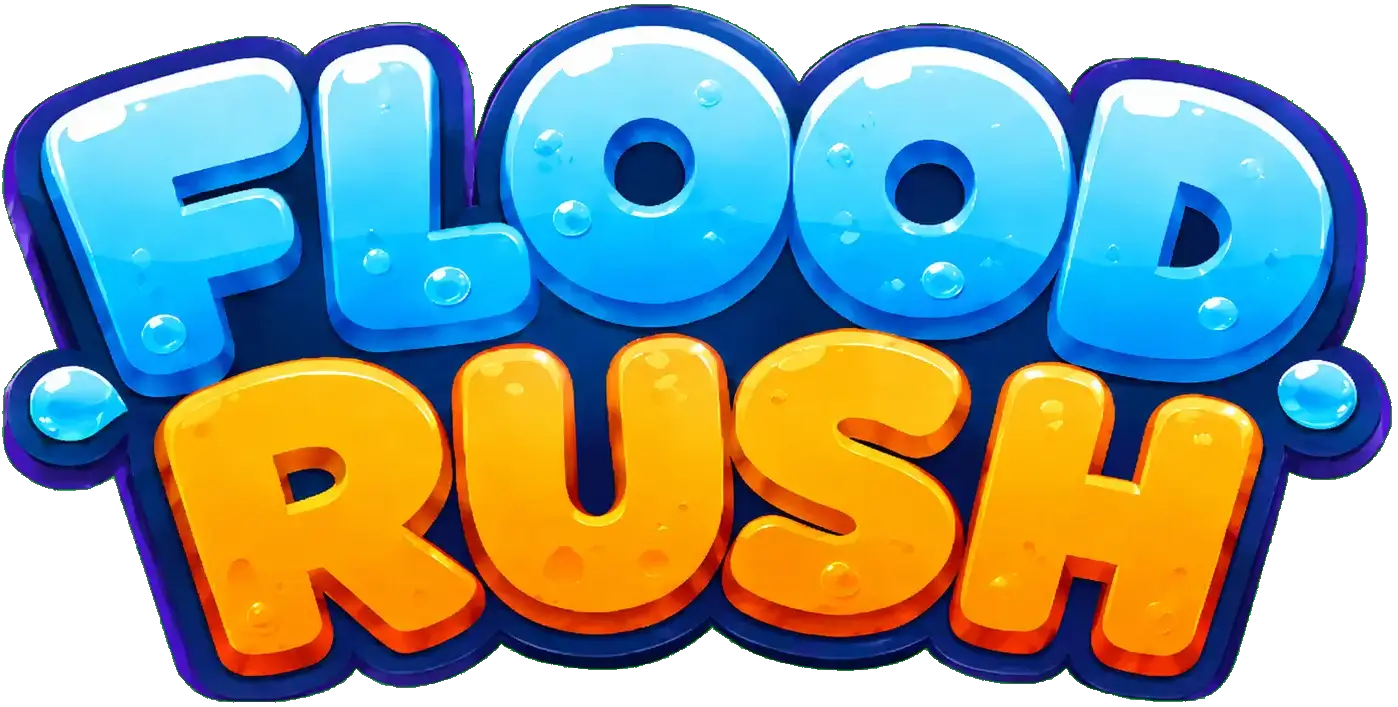
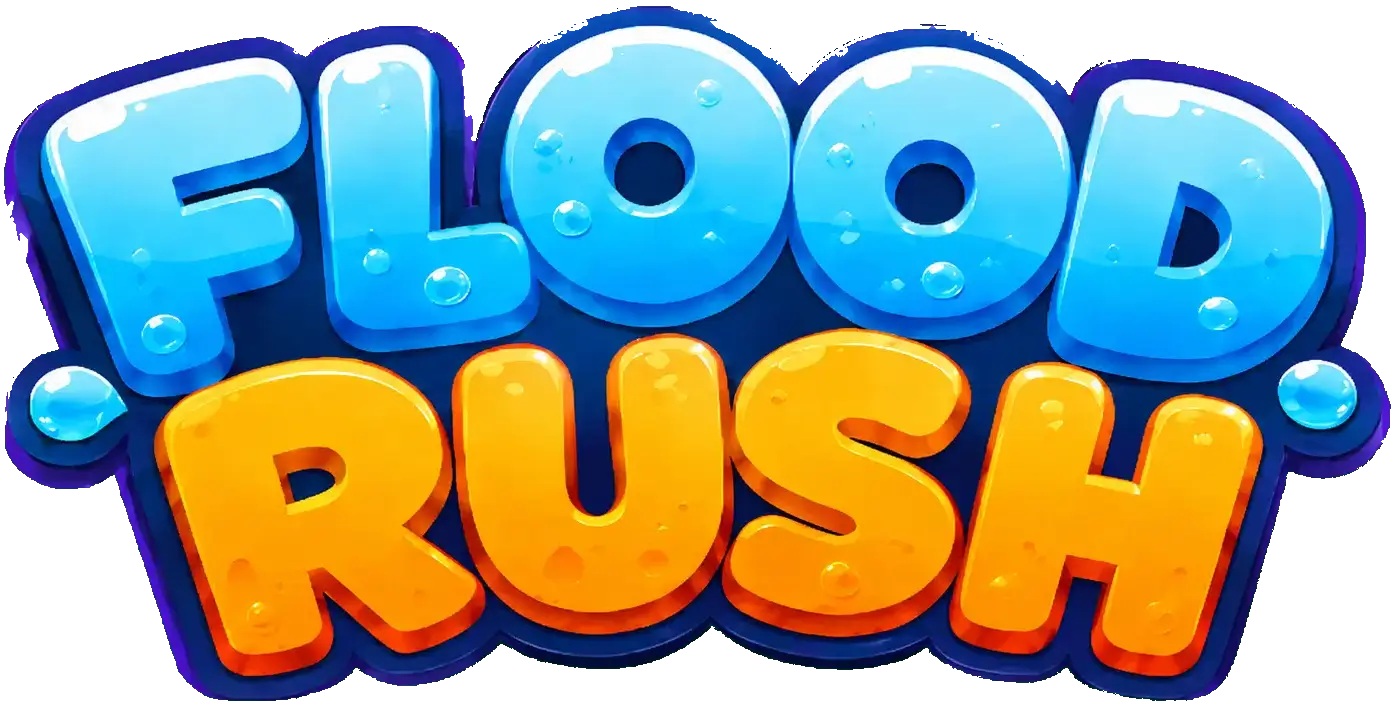
feat: Enhance swimmer UI asset processing with green chroma handling
- Added functions to detect and remove green-screen spill from images, improving visual quality of assets.
- Implemented a method to strip light edge fringes from silhouettes, enhancing the clarity of keyed images.
- Updated the asset processing script to apply new chroma keying techniques when processing swimmer UI assets.

diff --git a/scripts/process_swimmer_ui_assets.py b/scripts/process_swimmer_ui_assets.py
@@ -8,7 +8,9 @@ import os
 from collections import deque
 from dataclasses import dataclass
 
+import numpy as np
 from PIL import Image
+from scipy import ndimage
 
 ROOT = os.path.dirname(os.path.dirname(os.path.abspath(__file__)))
 SRC_DIR = os.path.join(ROOT, 'assets', 'swimmer')
@@ -104,6 +106,50 @@ def is_magenta_chroma(
     if g < rb_avg * 0.82 and b > 75 and r > 75 and (r + b) > g * 2.5:
         return True
     return False
+
+
+def is_green_chroma_bg(bg: tuple[int, int, int]) -> bool:
+    """Detect export backgrounds keyed on pure/chroma green."""
+    r, g, b = bg
+    return g > 120 and g > r + 40 and g > b + 40
+
+
+def despill_green_chroma(rgba: Image.Image) -> Image.Image:
+    """Remove green-screen spill without touching blue/orange art pixels."""
+    px = rgba.load()
+    w, h = rgba.size
+    for y in range(h):
+        for x in range(w):
+            r, g, b, a = px[x, y]
+            if a == 0:
+                continue
+            cap = max(r, b)
+            if g > cap:
+                px[x, y] = (r, cap, b, a)
+    return rgba
+
+
+def remove_light_edge_fringe(rgba: Image.Image, passes: int = 12) -> Image.Image:
+    """Strip desaturated keying halos from the outer 1-2 px of the silhouette."""
+    arr = np.array(rgba)
+    for _ in range(passes):
+        alpha = arr[..., 3] > 0
+        if not alpha.any():
+            break
+        dist = ndimage.distance_transform_edt(alpha)
+        rgb = arr[..., :3].astype(float)
+        lum = 0.2126 * rgb[..., 0] + 0.7152 * rgb[..., 1] + 0.0722 * rgb[..., 2]
+        sat = rgb.max(axis=2) - rgb.min(axis=2)
+        kill = alpha & (dist <= 2) & (
+            ((sat < 75) & (lum > 45))
+            | ((dist <= 1) & (lum > 80))
+            | ((dist <= 1) & (sat < 95) & (lum > 65))
+            | ((dist <= 2) & (sat < 45) & (lum > 40))
+        )
+        if not kill.any():
+            break
+        arr[kill] = (0, 0, 0, 0)
+    return Image.fromarray(arr)
 
 
 def global_remove_background(
@@ -274,6 +320,9 @@ def process_file(filename: str) -> AssetMeta:
     rgba = image.convert('RGBA')
     bg = sample_background(rgba)
     keyed = flood_remove_background(rgba.copy(), bg)
+    if is_green_chroma_bg(bg):
+        keyed = despill_green_chroma(keyed)
+        keyed = remove_light_edge_fringe(keyed)
     bbox = alpha_bbox(keyed)
     if bbox is None:
         raise RuntimeError(f'No visible content after keying: {filename}')
